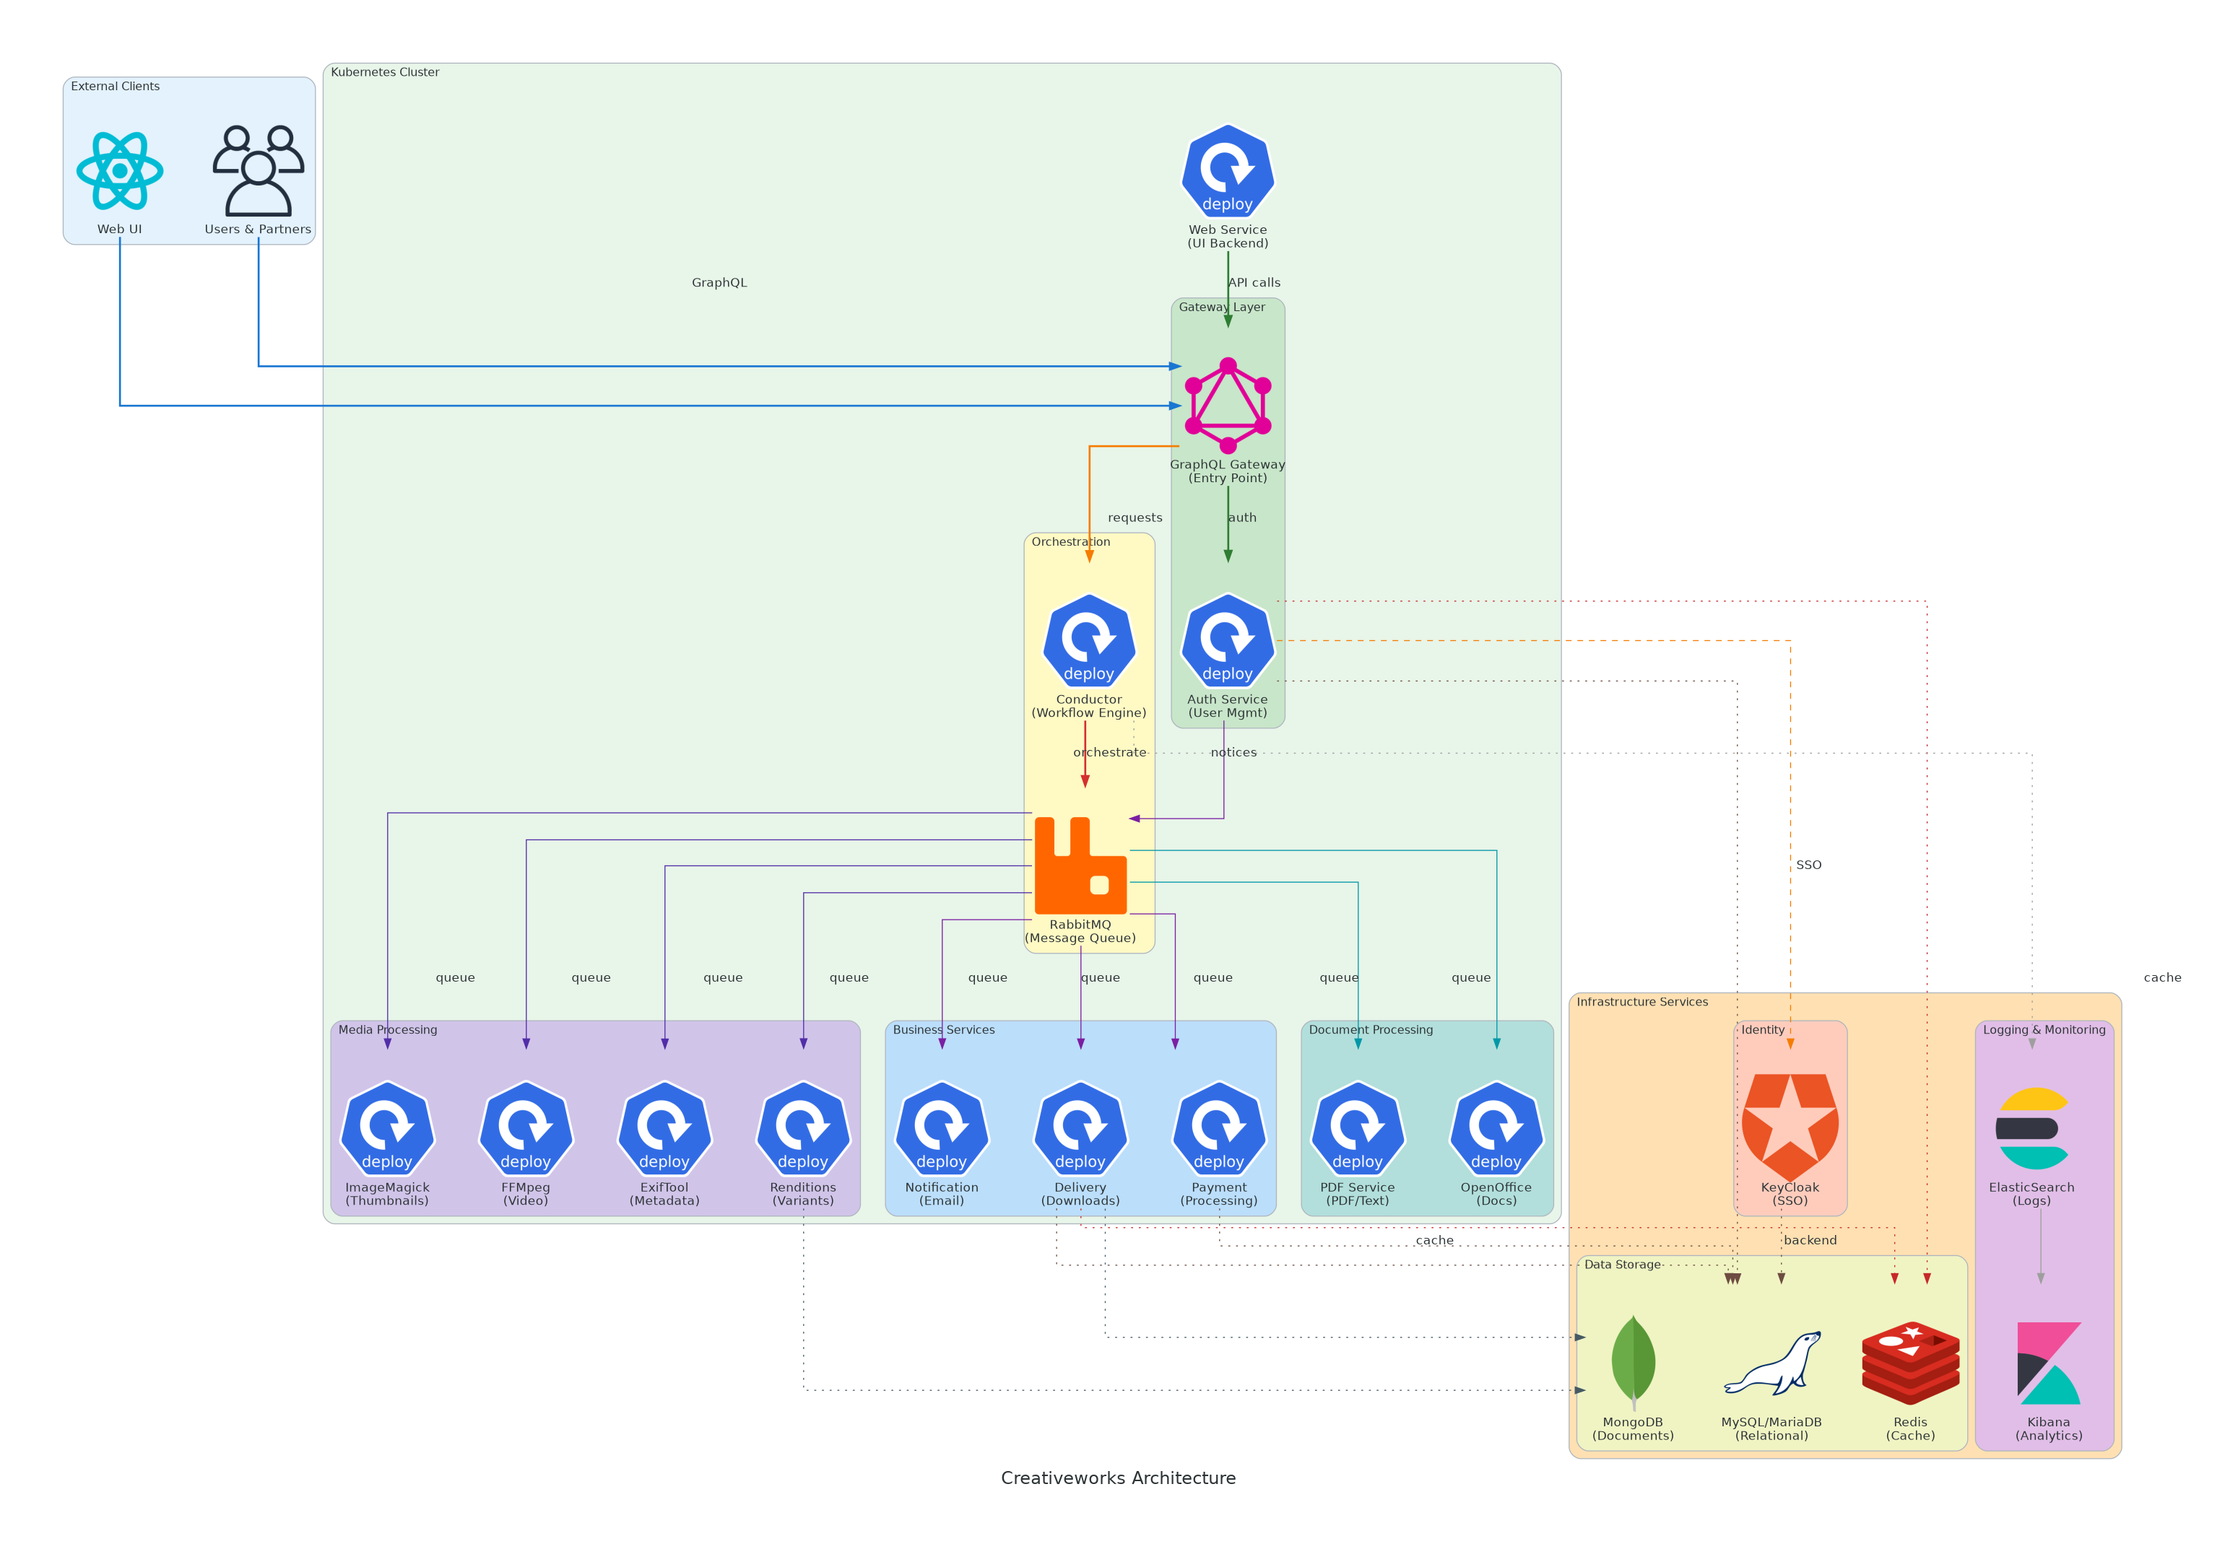
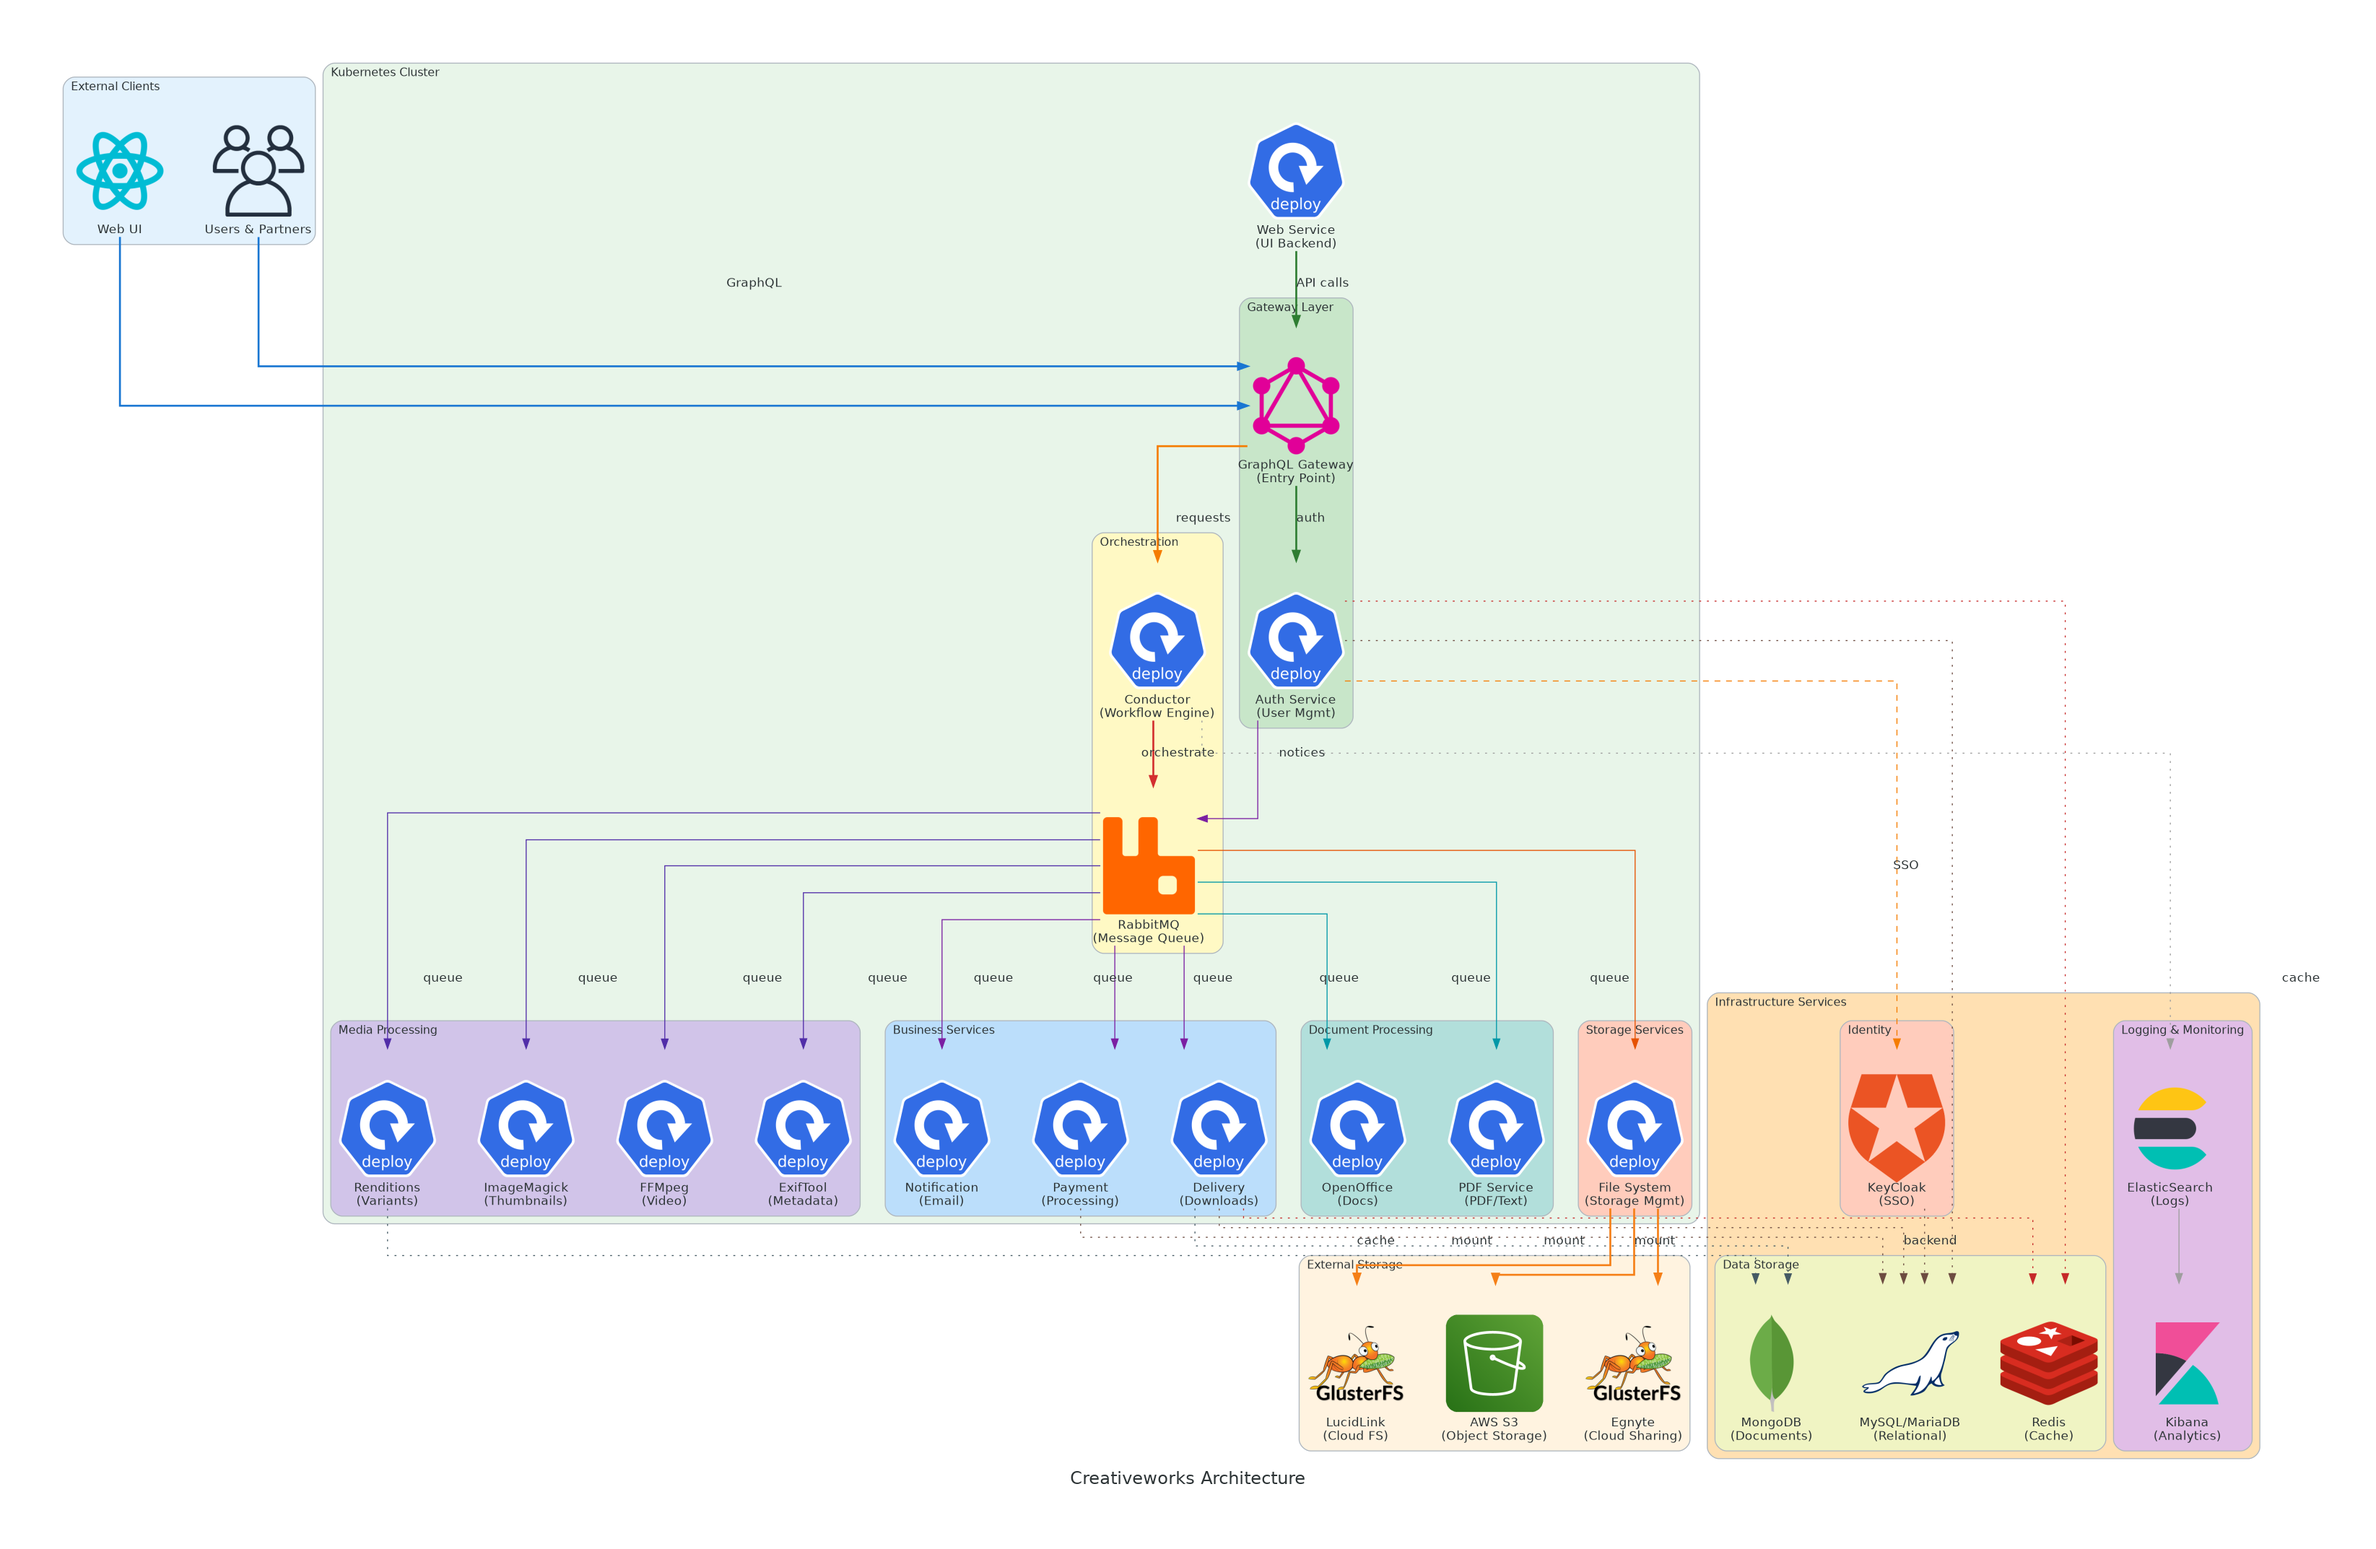
Add File System microservice with S3, Egnyte, and LucidLink support
- Added File System Service to handle multiple storage backends
- Integrated AWS S3, Egnyte, and LucidLink mounting
- Updated architecture documentation with Storage Services section
- Updated Python diagram with File System service and external storage connections
- Regenerated architecture diagram showing storage integration
- Updated MEMORY.md to track progress
- Architecture version bumped to 0.3

diff --git a/creativeworks_diagram.py b/creativeworks_diagram.py
@@ -9,6 +9,8 @@ from diagrams.elastic.elasticsearch import Elasticsearch, Kibana
 from diagrams.saas.identity import Auth0
 from diagrams.programming.framework import GraphQL, React
 from diagrams.onprem.client import Users
+from diagrams.aws.storage import S3
+from diagrams.onprem.storage import Glusterfs
 
 # Configure diagram attributes for executive presentation
 graph_attr = {
@@ -70,6 +72,10 @@ with Diagram(
             openoffice = Deployment("OpenOffice\n(Docs)")
             pdf_service = Deployment("PDF Service\n(PDF/Text)")
 
+        # Storage Services
+        with Cluster("Storage Services", graph_attr={"bgcolor": "#FFCCBC"}):
+            filesystem = Deployment("File System\n(Storage Mgmt)")
+
     # Infrastructure Services
     with Cluster("Infrastructure Services", graph_attr={"bgcolor": "#FFE0B2"}):
         with Cluster("Identity", graph_attr={"bgcolor": "#FFCCBC"}):
@@ -83,6 +89,12 @@ with Diagram(
         with Cluster("Logging & Monitoring", graph_attr={"bgcolor": "#E1BEE7"}):
             elastic = Elasticsearch("ElasticSearch\n(Logs)")
             kibana = Kibana("Kibana\n(Analytics)")
+
+    # External Storage Backends
+    with Cluster("External Storage", graph_attr={"bgcolor": "#FFF3E0"}):
+        s3 = S3("AWS S3\n(Object Storage)")
+        egnyte = Glusterfs("Egnyte\n(Cloud Sharing)")
+        lucidlink = Glusterfs("LucidLink\n(Cloud FS)")
 
     # ==========================================
     # CONNECTIONS
@@ -123,6 +135,14 @@ with Diagram(
     rabbitmq >> Edge(color="#0097A7", label="queue") >> openoffice
     rabbitmq >> Edge(color="#0097A7", label="queue") >> pdf_service
 
+    # RabbitMQ to Storage Services
+    rabbitmq >> Edge(color="#E65100", label="queue") >> filesystem
+
+    # File System to External Storage
+    filesystem >> Edge(color="#F57F17", style="bold", label="mount") >> s3
+    filesystem >> Edge(color="#F57F17", style="bold", label="mount") >> egnyte
+    filesystem >> Edge(color="#F57F17", style="bold", label="mount") >> lucidlink
+
     # Services to Databases
     auth_service >> Edge(color="#6D4C41", style="dotted") >> mysql
     delivery >> Edge(color="#6D4C41", style="dotted") >> mysql
@@ -144,3 +164,4 @@ with Diagram(
     elastic >> Edge(color="#9E9E9E") >> kibana
 
 print("✓ Creativeworks Architecture Diagram generated: creativeworks_architecture.png")
+print("  - Added File System Service with S3, Egnyte, and LucidLink storage backends")

diff --git a/creativeworks-architecture.md b/creativeworks-architecture.md
@@ -84,9 +84,21 @@
     - Text extraction from PDFs
     - Connects via RabbitMQ
 
+### Storage Services
+
+13. **File System Service**
+    - Unified file storage interface
+    - Mounts and manages multiple storage backends:
+      - **S3** - AWS S3 object storage
+      - **Egnyte** - Cloud file sharing and collaboration
+      - **LucidLink** - Cloud-native file system
+    - Provides file operations (read, write, delete, move)
+    - Handles file synchronization across storage backends
+    - Connects via RabbitMQ
+
 ### Frontend Services
 
-13. **Web Microservice**
+14. **Web Microservice**
     - Supports web UI (backend for frontend)
     - Makes API calls to GraphQL Gateway on behalf of Web UI
     - Serves as intermediary between browser and API
@@ -148,6 +160,10 @@ RabbitMQ ←→ Conductor Service
 - **MySQL**: Structured relational data (users, transactions, etc.)
 - **MongoDB**: Flexible document storage (metadata, assets info, etc.)
 - **Redis**: Caching, sessions, temporary data
+- **File System Service**: Media assets and files stored across multiple backends
+  - **S3**: Primary object storage for media assets
+  - **Egnyte**: Collaborative file sharing and team storage
+  - **LucidLink**: Cloud-native file system for high-performance access
 
 ---
 
@@ -156,7 +172,7 @@ RabbitMQ ←→ Conductor Service
 - [x] How does Web Microservice communicate with backend? **ANSWERED: Via GraphQL Gateway**
 - [x] Authentication flow: Does KeyCloak integrate with Auth-Service? **ANSWERED: Yes, Auth-Service uses KeyCloak for SSO**
 - [x] What database does KeyCloak use? **ANSWERED: MySQL**
-- [ ] File storage: Where are media assets stored? (S3, NFS, etc.?)
+- [x] File storage: Where are media assets stored? **ANSWERED: File System Service manages S3, Egnyte, and LucidLink**
 - [ ] Scale requirements: Expected load, number of users?
 - [ ] Deployment strategy: Rolling updates, blue-green, canary?
 - [ ] Monitoring: Prometheus/Grafana in addition to ELK stack?
@@ -175,5 +191,5 @@ RabbitMQ ←→ Conductor Service
 
 ---
 
-**Last Updated:** 2025-11-04
-**Version:** 0.2 - Updated with architecture clarifications (MySQL icon, KeyCloak backend, Auth-Service notifications, Web Service flow)
+**Last Updated:** 2025-11-07
+**Version:** 0.3 - Added File System Service for managing S3, Egnyte, and LucidLink storage backends

diff --git a/MEMORY.md b/MEMORY.md
@@ -16,7 +16,19 @@ Working on GitLab setup guide for the alexa-skills-kit-js repository.
 
 ### Completed Work (Latest First)
 
-1. **Architecture Diagrams** (Commits: ba1248e, 27d65dc, 0d3d13b, fc610f0, f53943f)
+1. **File System Microservice Addition** (2025-11-07)
+   - Added File System Service to Creativeworks architecture
+   - Integrated support for three storage backends:
+     - **AWS S3** - Object storage for media assets
+     - **Egnyte** - Cloud file sharing and collaboration
+     - **LucidLink** - Cloud-native file system for high-performance access
+   - Updated files:
+     - `creativeworks-architecture.md` - Added Storage Services section, updated Data Storage Strategy
+     - `creativeworks_diagram.py` - Added File System service cluster and external storage connections
+     - `creativeworks_architecture.png` - Regenerated diagram with new components
+   - Architecture version updated to 0.3
+
+2. **Architecture Diagrams** (Commits: ba1248e, 27d65dc, 0d3d13b, fc610f0, f53943f)
    - Created Creativeworks architecture diagram and documentation
    - Added Python Diagrams architecture example
    - Implemented K8s architecture visualization
@@ -26,7 +38,6 @@ Working on GitLab setup guide for the alexa-skills-kit-js repository.
      - `creativeworks_architecture.png` - Generated diagram
      - `architecture_diagram.py` - K8s architecture example
      - `k8s_architecture.png` - K8s diagram
-
    - Database: Switched to MariaDB icon for MySQL-compatible database
 
 ---
